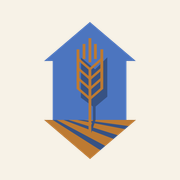
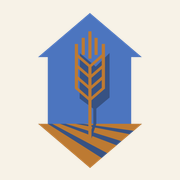
The home-screen tile fills its space
Tommy, 2026-11-13, with a screenshot of his home screen: "can we make
the favicon/thumbnail bigger? I would like straw panels too. Pretty
entirely fill the space there. Similar to tip for your time."

RAISING THE FILL ALONE COULD NOT HAVE DONE IT, and that is the finding.
Two causes, one of them not a number:

 1. The mark is PORTRAIT, 521x778. Checked for baked-in transparent
    padding hoping for a free win - a trim pass measures ZERO, it is
    already tight - so fitting by height leaves 40% of the width empty
    whatever number is chosen.
 2. Android wraps a NON-MASKABLE icon in its own white circle, with its
    own padding, and nothing inside the PNG changes that. That ring is
    the gap he is pointing at, and it is why Tip4urTime fills its tile.

So: app/manifest.ts (Next file convention) declaring BOTH purposes -
/icon.png as "any" and a new full-bleed /icon-maskable.png as
"maskable". Both are needed; a manifest with only a maskable icon gets
it used unmasked in the install prompt and task switcher, where a
full-bleed square reads as blunt.

Fills: icon 0.9 -> 0.94, apple-icon 0.76 -> 0.86 (iOS masks with a
superellipse, which crops far less than a circle), maskable 0.80.
favicon.ico stays 0.96. The link card is untouched - he did not ask, and
a bigger mark there would crowd the text.

THE SAFE-ZONE SUM, WHICH I GOT WRONG FIRST. A maskable icon's safe zone
is the centre circle of 80% diameter. The obvious sum fits the mark's
[…]

Changed region(s): [[0.1944, 0.0556, 0.8056, 0.9444]]

diff --git a/apps/web/app/manifest.ts b/apps/web/app/manifest.ts
@@ -1,0 +1,57 @@
+import type { MetadataRoute } from "next";
+
+/**
+ * ⚠ **THE WEB APP MANIFEST — added 2026-11-13 so the home-screen tile stops
+ * being a small mark in a big white circle.**
+ *
+ * > *"can we make the favicon/thumbnail bigger? I would like straw panels
+ * > too. Pretty entirely fill the space there. Similar to tip for your
+ * > time."* — Tommy, with a screenshot of his home screen
+ *
+ * Raising the fill numbers alone could not have fixed it. **Android wraps a
+ * non-maskable icon in its own white circle, with its own padding**, and
+ * nothing inside the PNG changes that. The only way to fill the tile is to
+ * declare an icon `purpose: "maskable"`, which tells the launcher the image
+ * is full-bleed and safe to crop to whatever shape it uses. That is why
+ * Tip4urTime fills its tile and this did not.
+ *
+ * ⚠ **BOTH purposes are listed, and both are needed.** A manifest that
+ * declares only a maskable icon gets that icon used *unmasked* in places that
+ * expect a plain one — the install prompt, the task switcher — where the
+ * full-bleed background reads as a blunt square. `"any"` and `"maskable"` are
+ * separate files here precisely because the safe-zone padding that makes one
+ * correct makes the other look shrunken.
+ *
+ * ⚠ **`icon-maskable.png` is served from `public/`, not `app/`.** Next's file
+ * conventions serve `app/icon.png` and `app/apple-icon.png` by exact name;
+ * `app/icon-maskable.png` matches nothing and would 404 behind a manifest
+ * entry that looks right. See `brand/generate-brand-assets.mjs`, which writes
+ * it there deliberately.
+ *
+ * ⚠ **`display: "standalone"` changes how an installed copy opens** — no URL
+ * bar, no browser back button — which is a real behaviour change rather than
+ * a cosmetic one. It is the normal choice for something kept on a home screen
+ * and used as an app, which is how he is using it, but it is his to reverse:
+ * `"browser"` keeps the tab chrome.
+ *
+ * ⚠ Every asset here comes from `brand/generate-brand-assets.mjs` and the one
+ * master mark. Change the mark, re-run the script, commit what it writes —
+ * never hand-edit an output.
+ */
+export default function manifest(): MetadataRoute.Manifest {
+  return {
+    name: "Building Integrity — Fabricator App",
+    short_name: "Straw Panels",
+    description: "Draw a straw-panel building, panel by panel, and get its shop drawings and its price.",
+    start_url: "/",
+    display: "standalone",
+    /* The card stock the link thumbnail already uses, so a splash screen and
+       an unfurl are the same colour rather than two near-whites. */
+    background_color: "#F7F2E7",
+    theme_color: "#4C75BF",
+    icons: [
+      { src: "/icon.png", sizes: "512x512", type: "image/png", purpose: "any" },
+      { src: "/icon-maskable.png", sizes: "512x512", type: "image/png", purpose: "maskable" },
+    ],
+  };
+}
